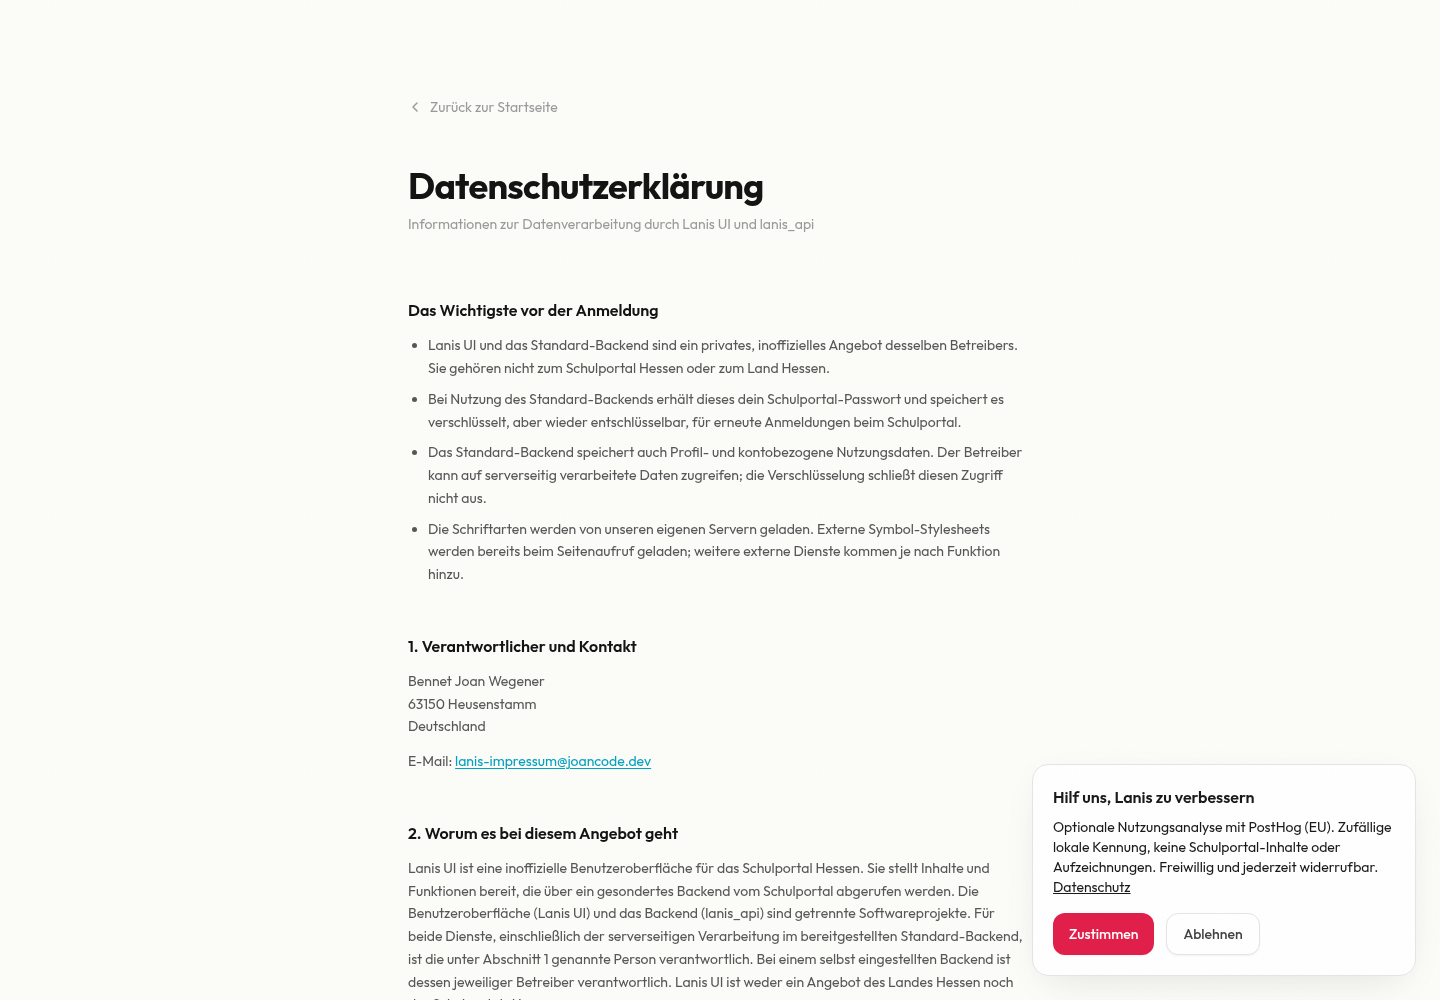
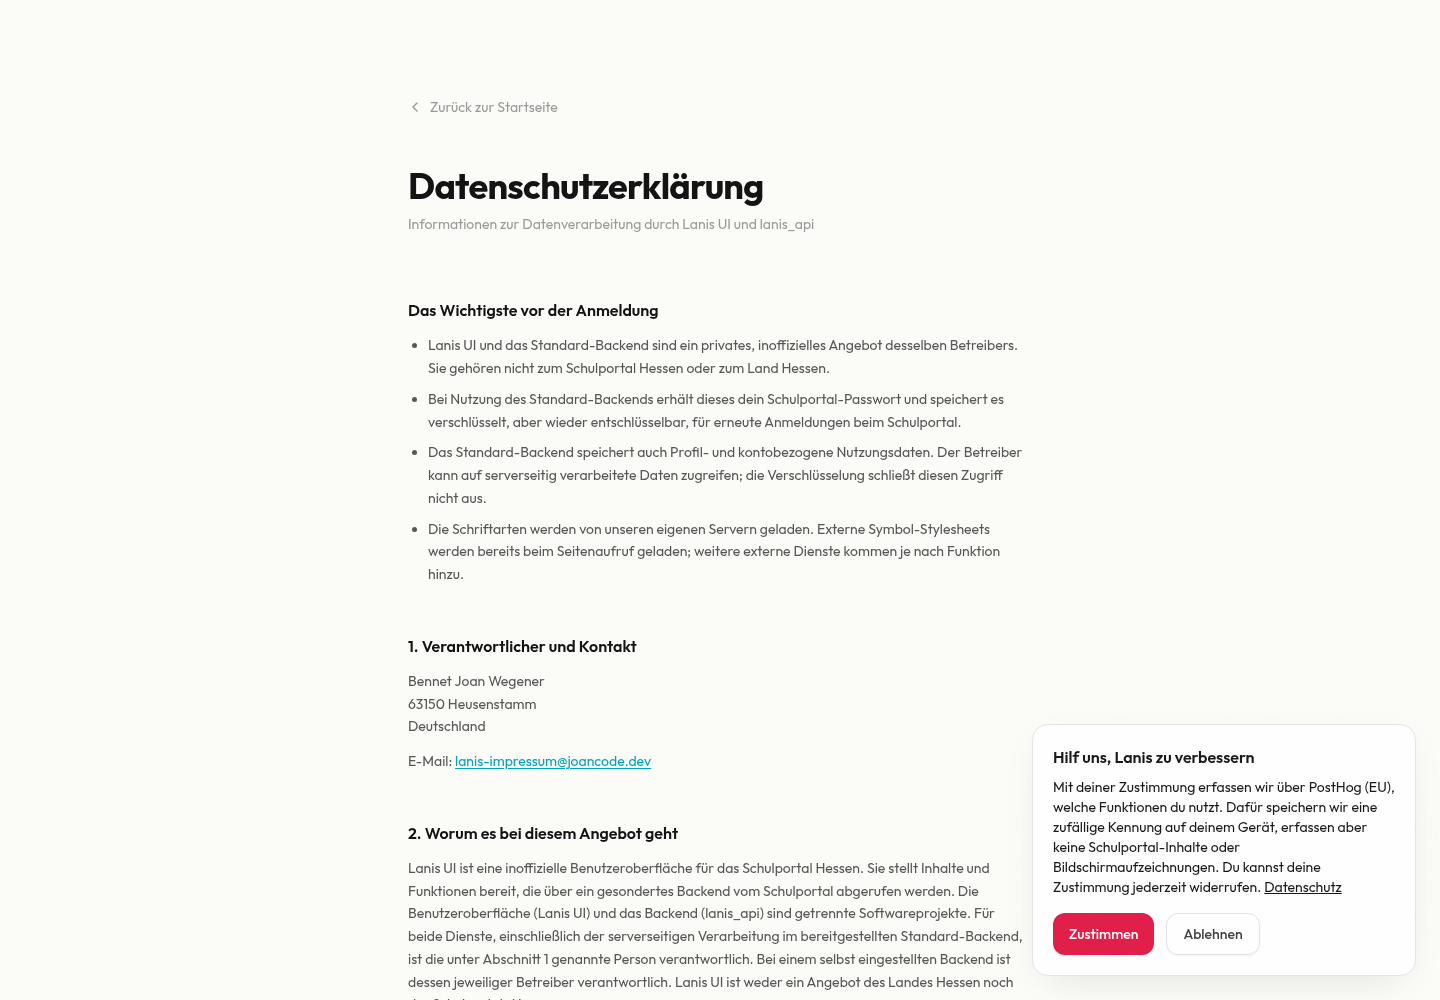
Rewrite analytics consent copy in natural German

Changed region(s): [[0.7188, 0.744, 0.9688, 0.899]]

diff --git a/src/analytics/Analytics.tsx b/src/analytics/Analytics.tsx
@@ -47,7 +47,7 @@ export default function Analytics() {
   if (!analyticsConfigured() || consent !== null || location.pathname.startsWith('/demo')) return null;
   return <aside aria-label="Optionale Nutzungsanalyse" className="fixed bottom-4 left-4 right-4 z-[90] mx-auto max-w-sm rounded-2xl border border-surface-200 bg-white p-5 text-surface-900 shadow-soft-lg dark:border-surface-700 dark:bg-surface-900 dark:text-surface-100 sm:bottom-6 sm:left-auto sm:right-6 sm:mx-0">
     <h2 className="font-semibold">Hilf uns, Lanis zu verbessern</h2>
-    <p className="mt-2 text-sm">Optionale Nutzungsanalyse mit PostHog (EU). Zufällige lokale Kennung, keine Schulportal-Inhalte oder Aufzeichnungen. Freiwillig und jederzeit widerrufbar. <Link className="underline" to="/privacy-policy">Datenschutz</Link></p>
+    <p className="mt-2 text-sm">Mit deiner Zustimmung erfassen wir über PostHog (EU), welche Funktionen du nutzt. Dafür speichern wir eine zufällige Kennung auf deinem Gerät, erfassen aber keine Schulportal-Inhalte oder Bildschirmaufzeichnungen. Du kannst deine Zustimmung jederzeit widerrufen. <Link className="underline" to="/privacy-policy">Datenschutz</Link></p>
     <div className="mt-4 flex flex-wrap gap-3">
       <button type="button" className="btn btn-primary" onClick={() => setConsent('granted')}>Zustimmen</button>
       <button type="button" className="btn btn-secondary" onClick={() => setConsent('denied')}>Ablehnen</button>
